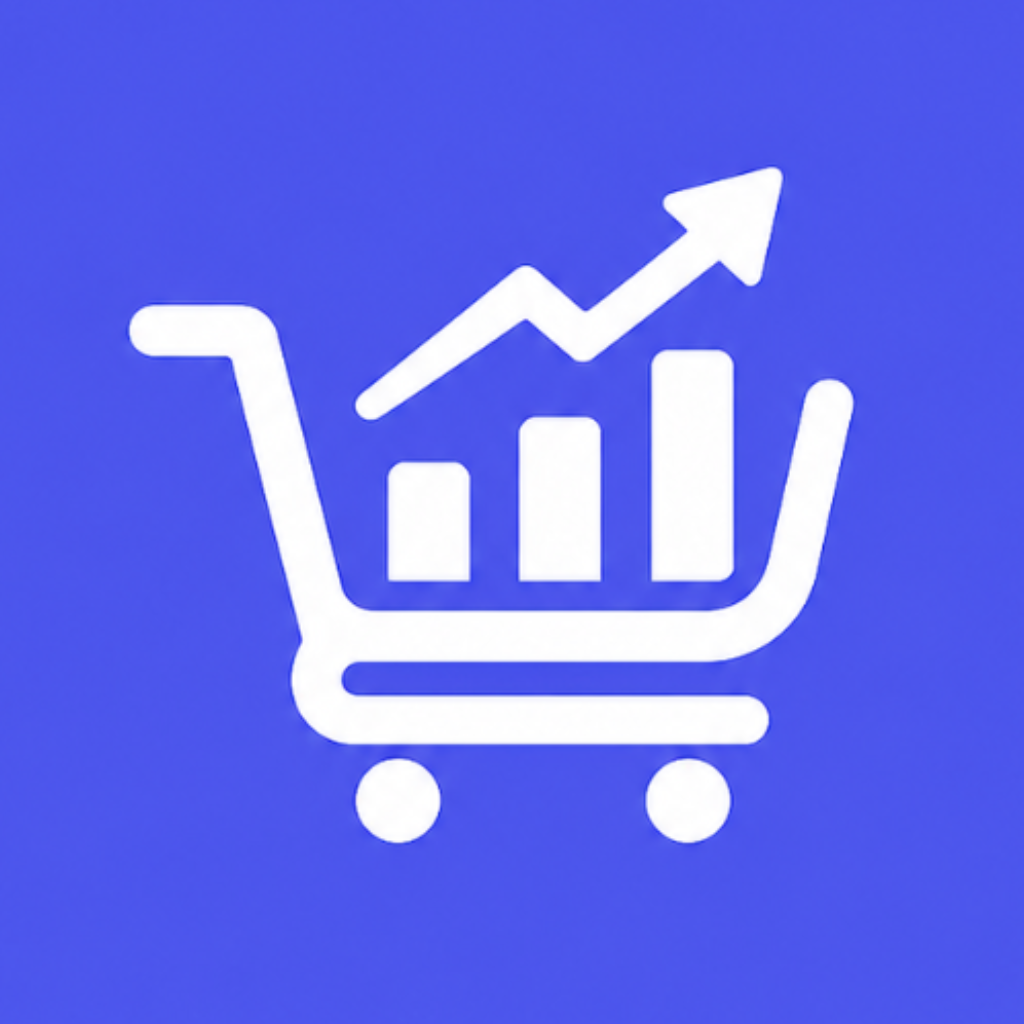
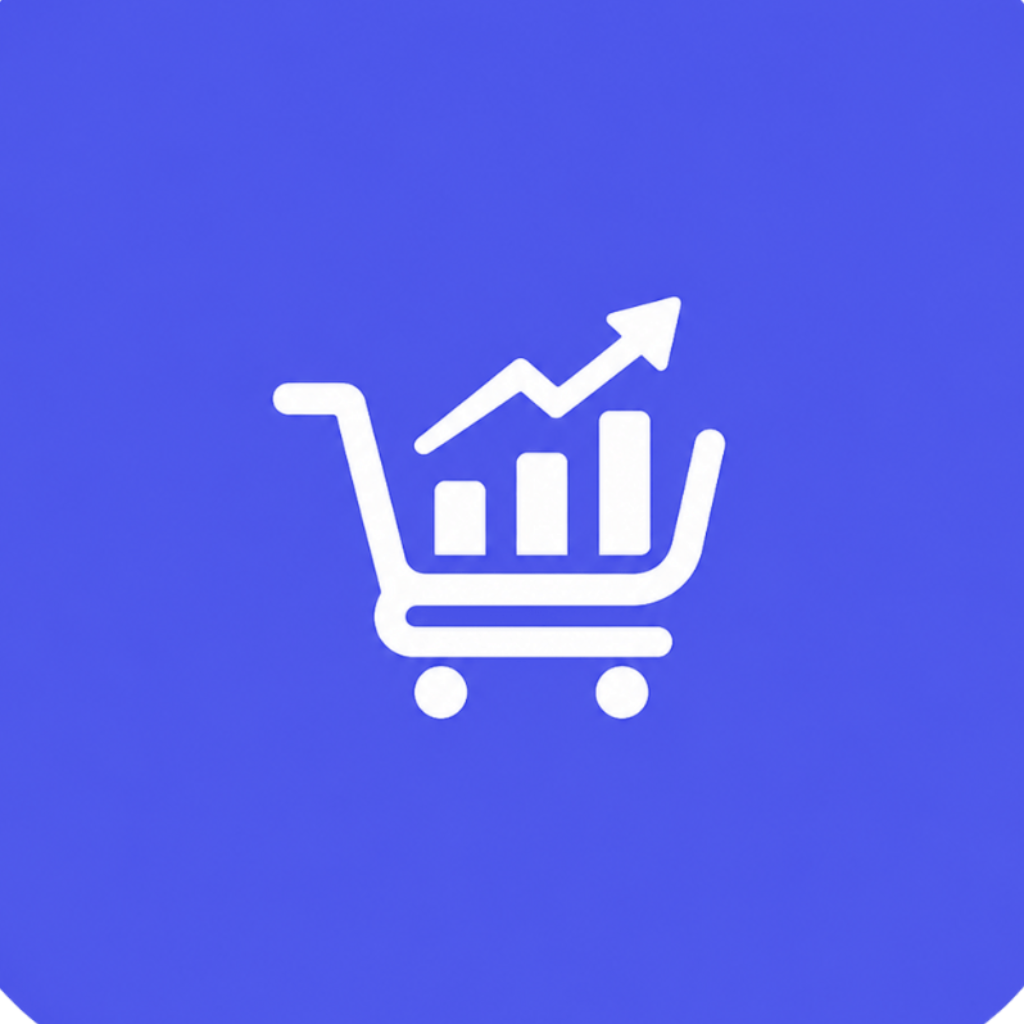
Update splash screen config and images
Add splash screen settings for iOS and Android in app.json, update app
icons and splash image, and configure splash screen behavior in layout.

Changed region(s): [[0.125, 0.1562, 0.8438, 0.8438], [0.9688, 0.9688, 1.0, 1.0], [0.0, 0.9688, 0.0312, 1.0]]

diff --git a/src/app/_layout.tsx b/src/app/_layout.tsx
@@ -1,10 +1,18 @@
 import { initializeDatabase } from '@/database/db';
 import { Stack } from 'expo-router';
 import { SQLiteProvider } from 'expo-sqlite';
+import * as SplashScreen from 'expo-splash-screen';
 import { StatusBar } from 'expo-status-bar';
+import { useEffect } from 'react';
 import { SafeAreaProvider } from 'react-native-safe-area-context';
 
+SplashScreen.preventAutoHideAsync();
+
 export default function RootLayout() {
+  useEffect(() => {
+    SplashScreen.hideAsync();
+  }, []);
+
   return (
     <SafeAreaProvider>
       <SQLiteProvider databaseName='top-vendas.db' onInit={initializeDatabase}>
